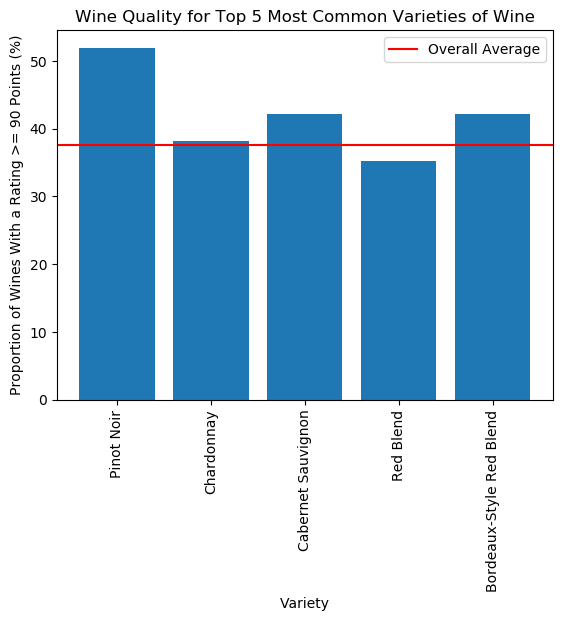
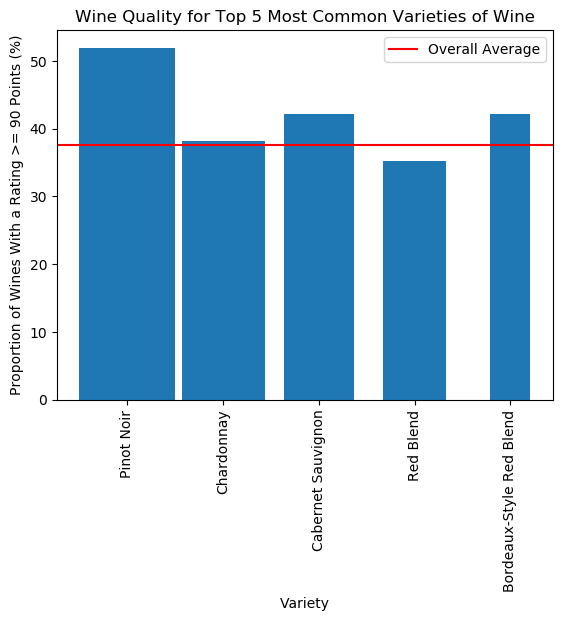
change exploratory bar graphs to show how many relative observations were used

diff --git a/src/explore_data.py b/src/explore_data.py
@@ -7,9 +7,11 @@
 #
 # Usage: python src/explore_data.py input_file output_file_prefix
 # Example usage: python src/explore_data.py 'data/wine_data_cleaned.csv' 'results/viz_'
-import pandas as pd
 import argparse
+
+import pandas as pd
 import matplotlib.pyplot as plt
+
 
 parser = argparse.ArgumentParser()
 parser.add_argument('input_file')
@@ -33,10 +35,16 @@ y = [100*sum(us.greater_than_90)/len(us),
      100*sum(spain.greater_than_90)/len(spain),
      100*sum(portugal.greater_than_90)/len(portugal)
     ]
+widths = [len(us)/len(us),
+     len(france)/len(us),
+     len(italy)/len(us),
+     len(spain)/len(us),
+     len(portugal)/len(us)
+    ]
 
 fig, ax = plt.subplots()
 
-plt.bar(x, y)
+plt.bar(x, y, width=widths)
 plt.axhline(100*sum(wine_data_cleaned.greater_than_90)/len(wine_data_cleaned),
             c='r', label="Overall Average")
 
@@ -93,10 +101,16 @@ y = [100*sum(pinot_noir.greater_than_90)/len(pinot_noir),
      100*sum(red_blend.greater_than_90)/len(red_blend),
      100*sum(bordeaux_style_red_blend.greater_than_90)/len(bordeaux_style_red_blend)
     ]
+widths = [len(pinot_noir)/len(pinot_noir),
+     len(chardonnay)/len(pinot_noir),
+     len(cabernet_sauvignon)/len(pinot_noir),
+     len(red_blend)/len(pinot_noir),
+     len(bordeaux_style_red_blend)/len(pinot_noir)
+    ]
 
 fig, ax = plt.subplots()
 
-plt.bar(x,y)
+plt.bar(x, y, width=widths)
 plt.axhline(100*sum(wine_data_cleaned.greater_than_90)/len(wine_data_cleaned),
             c='r', label="Overall Average")
 
